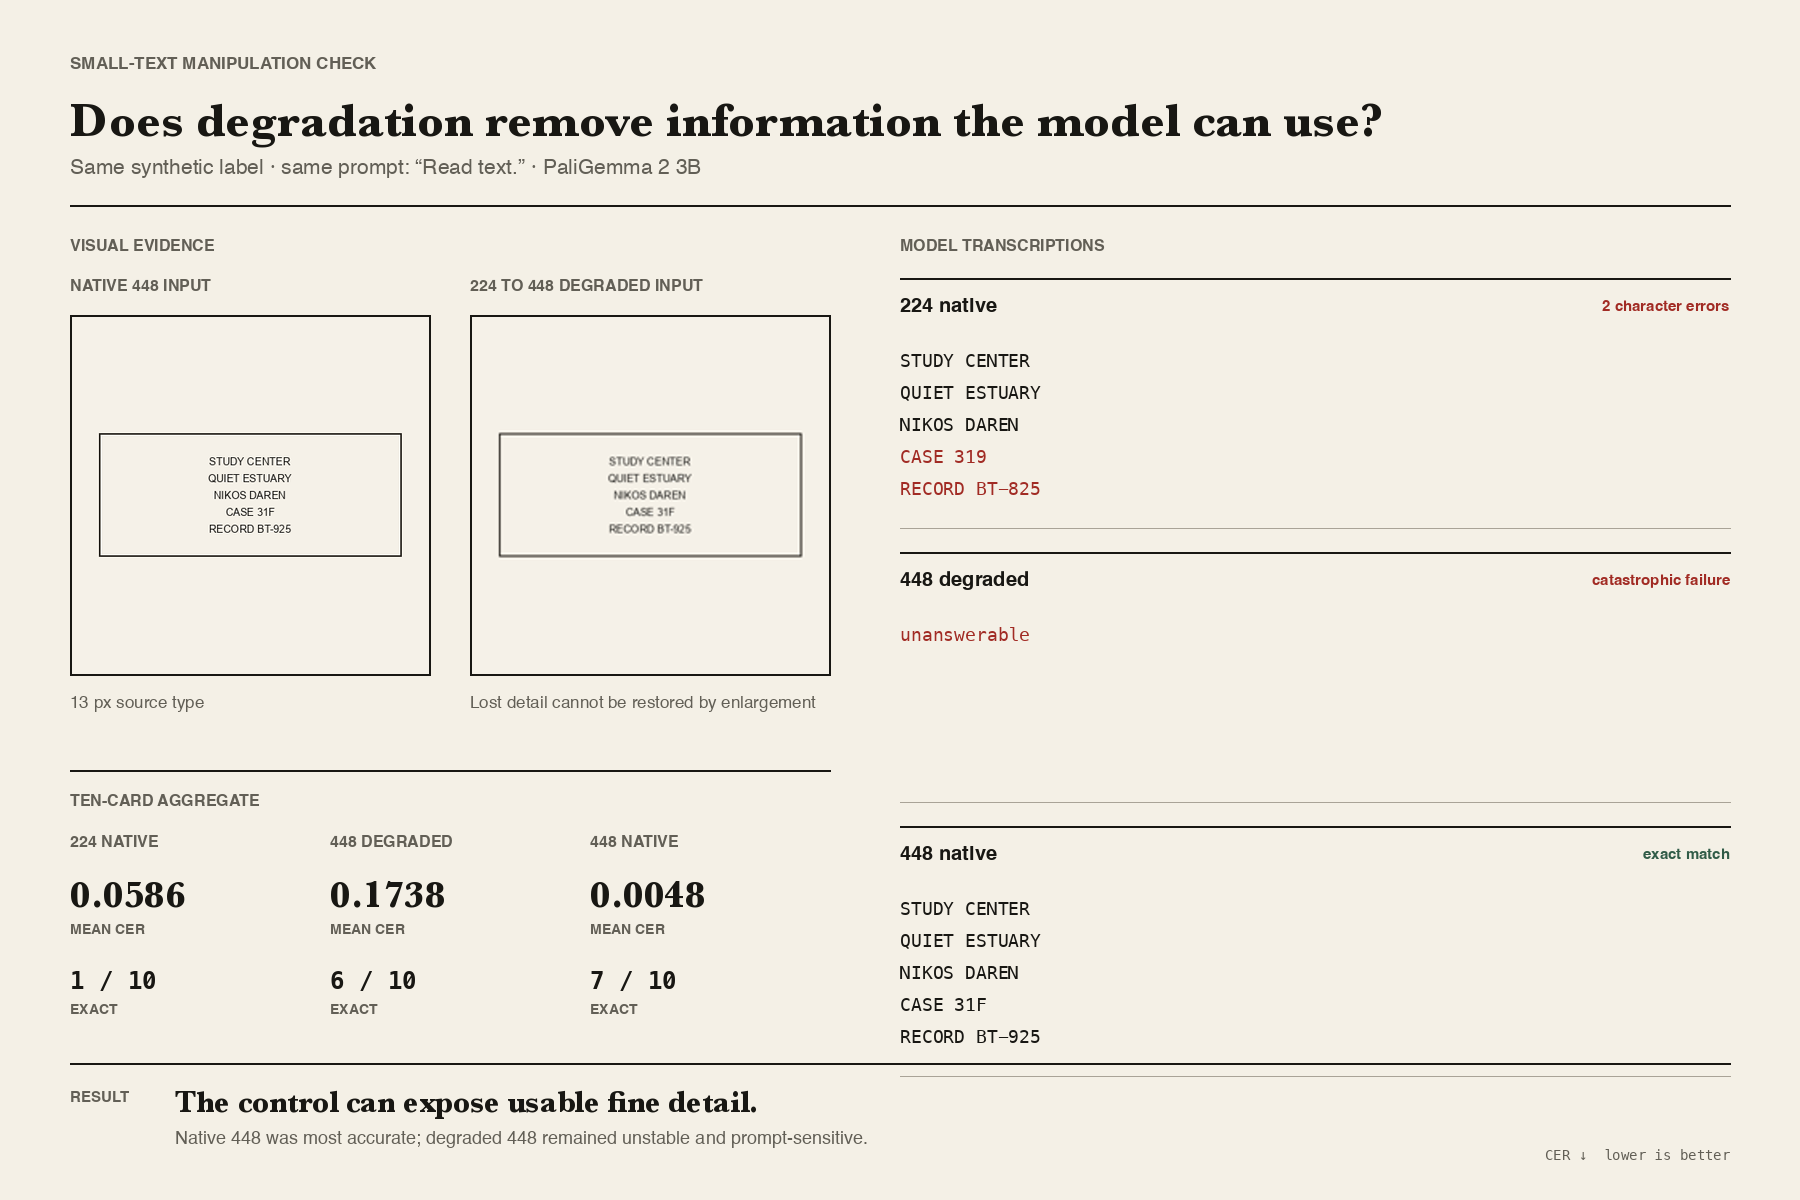
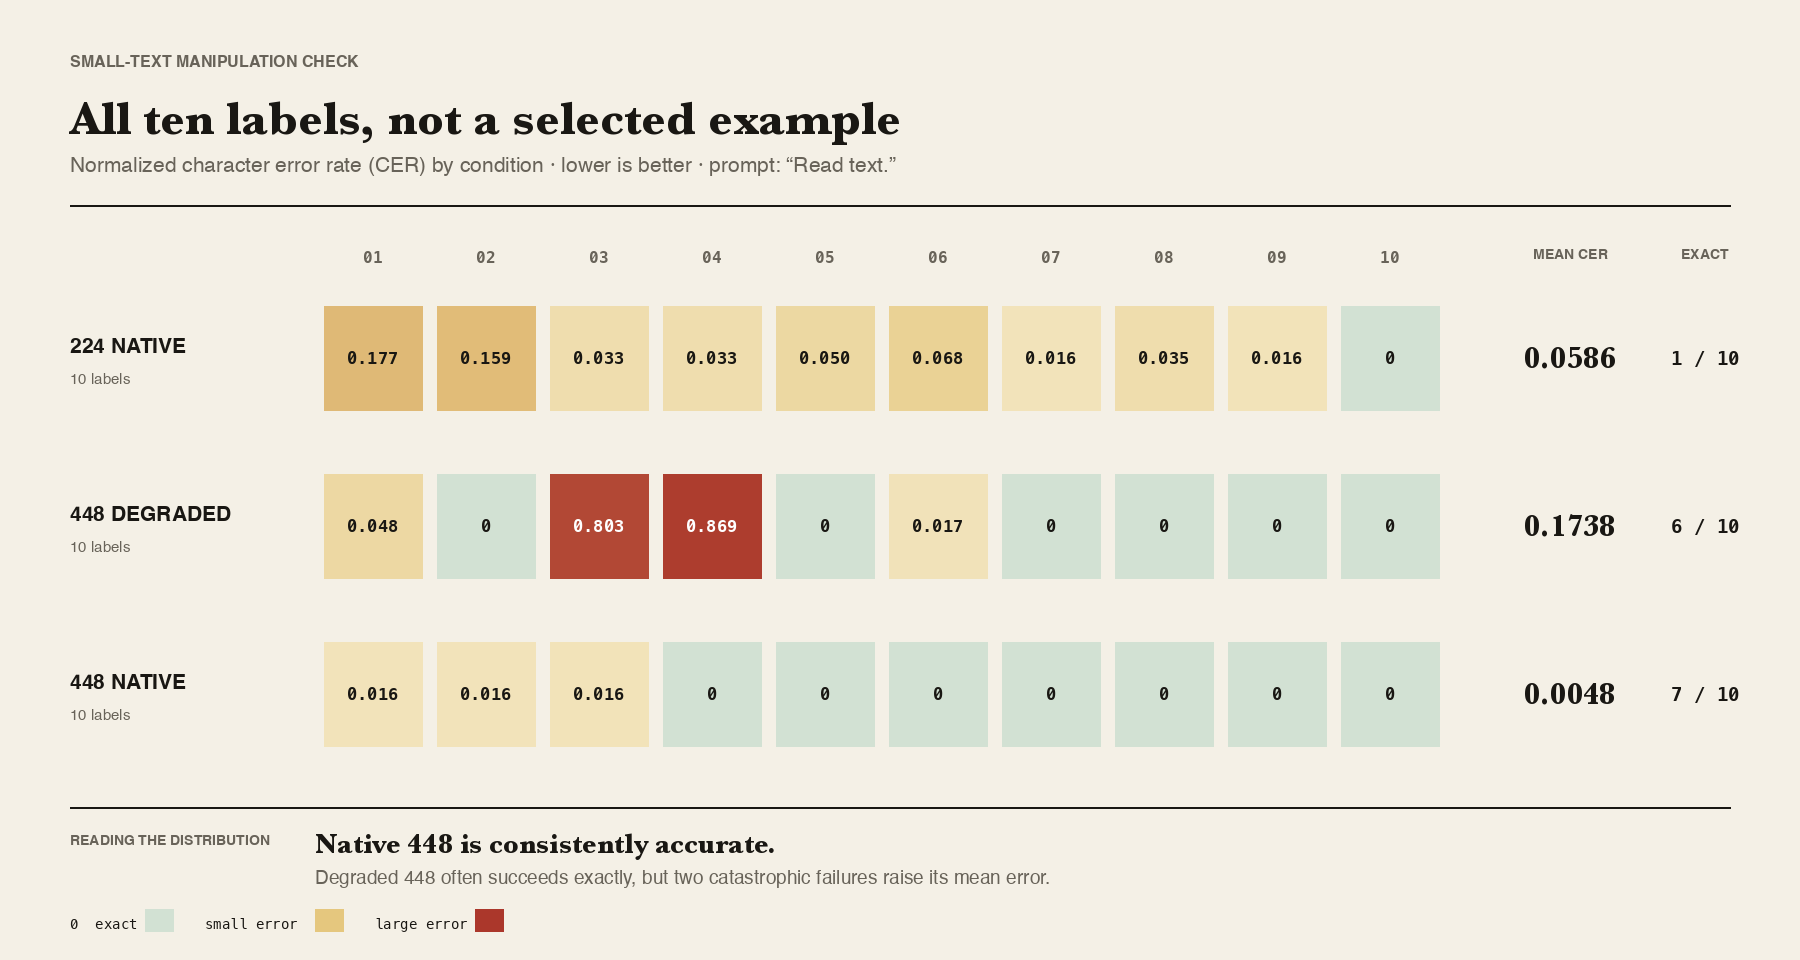
Show aggregate small-text results

diff --git a/reports/small_text_check.md b/reports/small_text_check.md
@@ -36,7 +36,7 @@ difference when the task genuinely depends on small text.
 | 448 degraded | 0.1738 | 0.0000 | 6/10 | 1.762 s |
 | 448 native | **0.0048** | **0.0000** | **7/10** | 1.821 s |
 
-![Representative small-text comparison](figures/small_text_manipulation_check.png)
+![Character error rate for all ten labels in each condition](figures/small_text_manipulation_check.png)
 
 In the paired native-448 versus degraded-448 comparison, native 448 had lower
 CER on four cards, degraded 448 had lower CER on one, and five tied. The degraded
